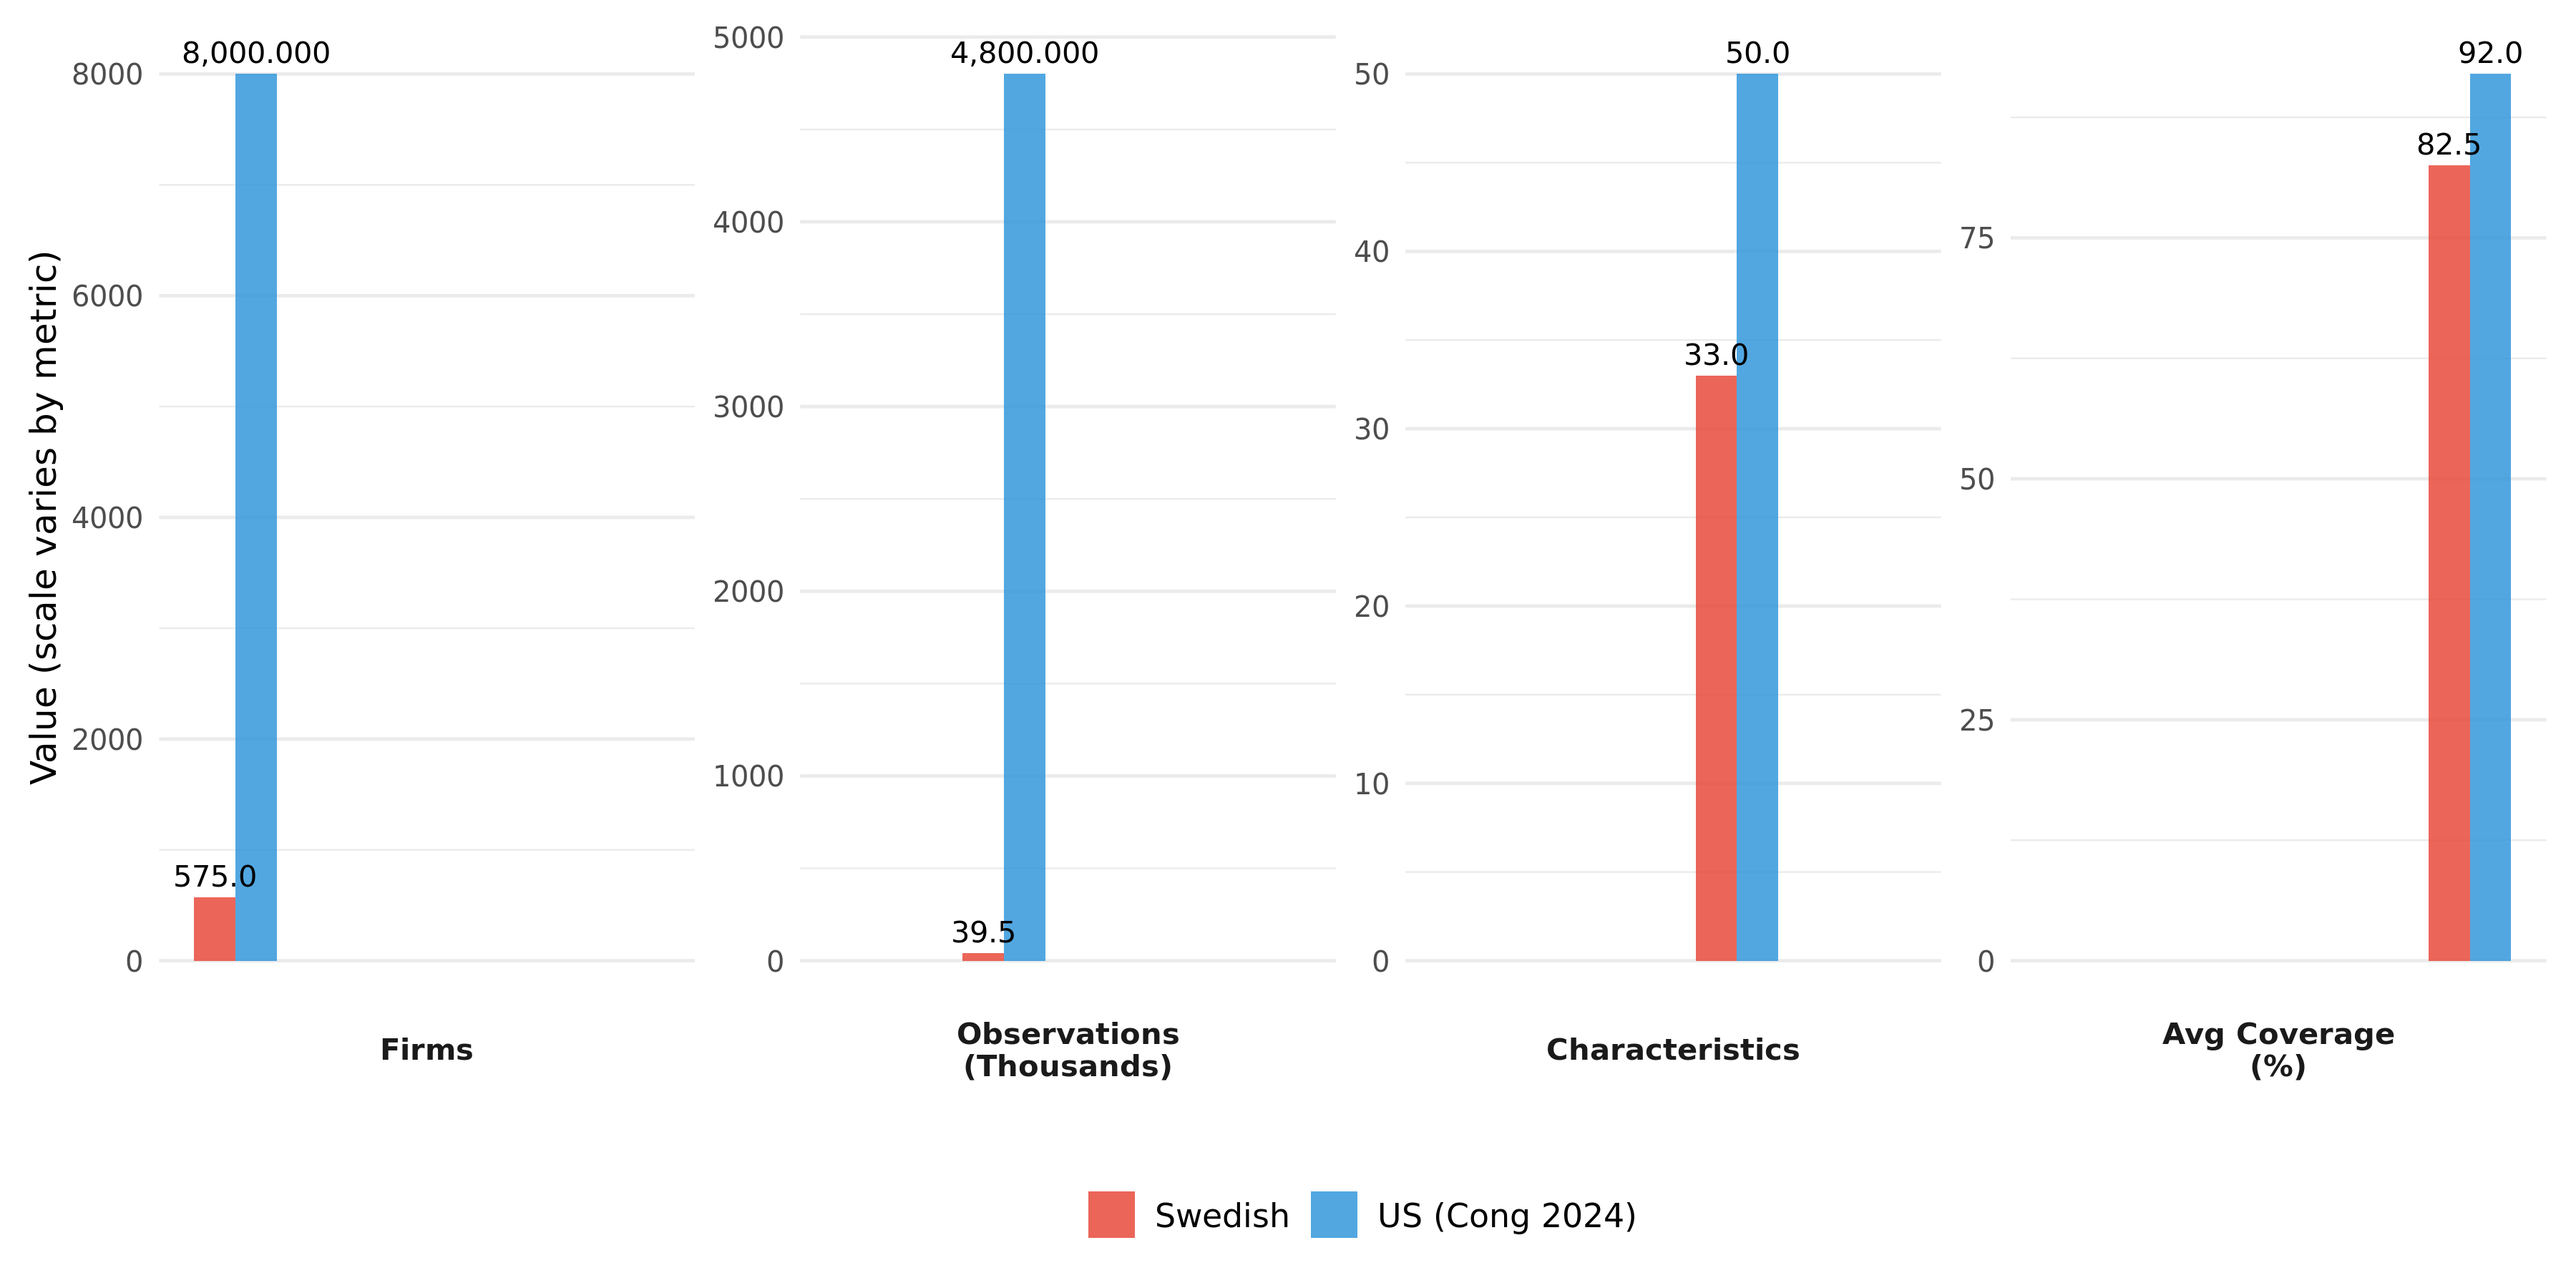
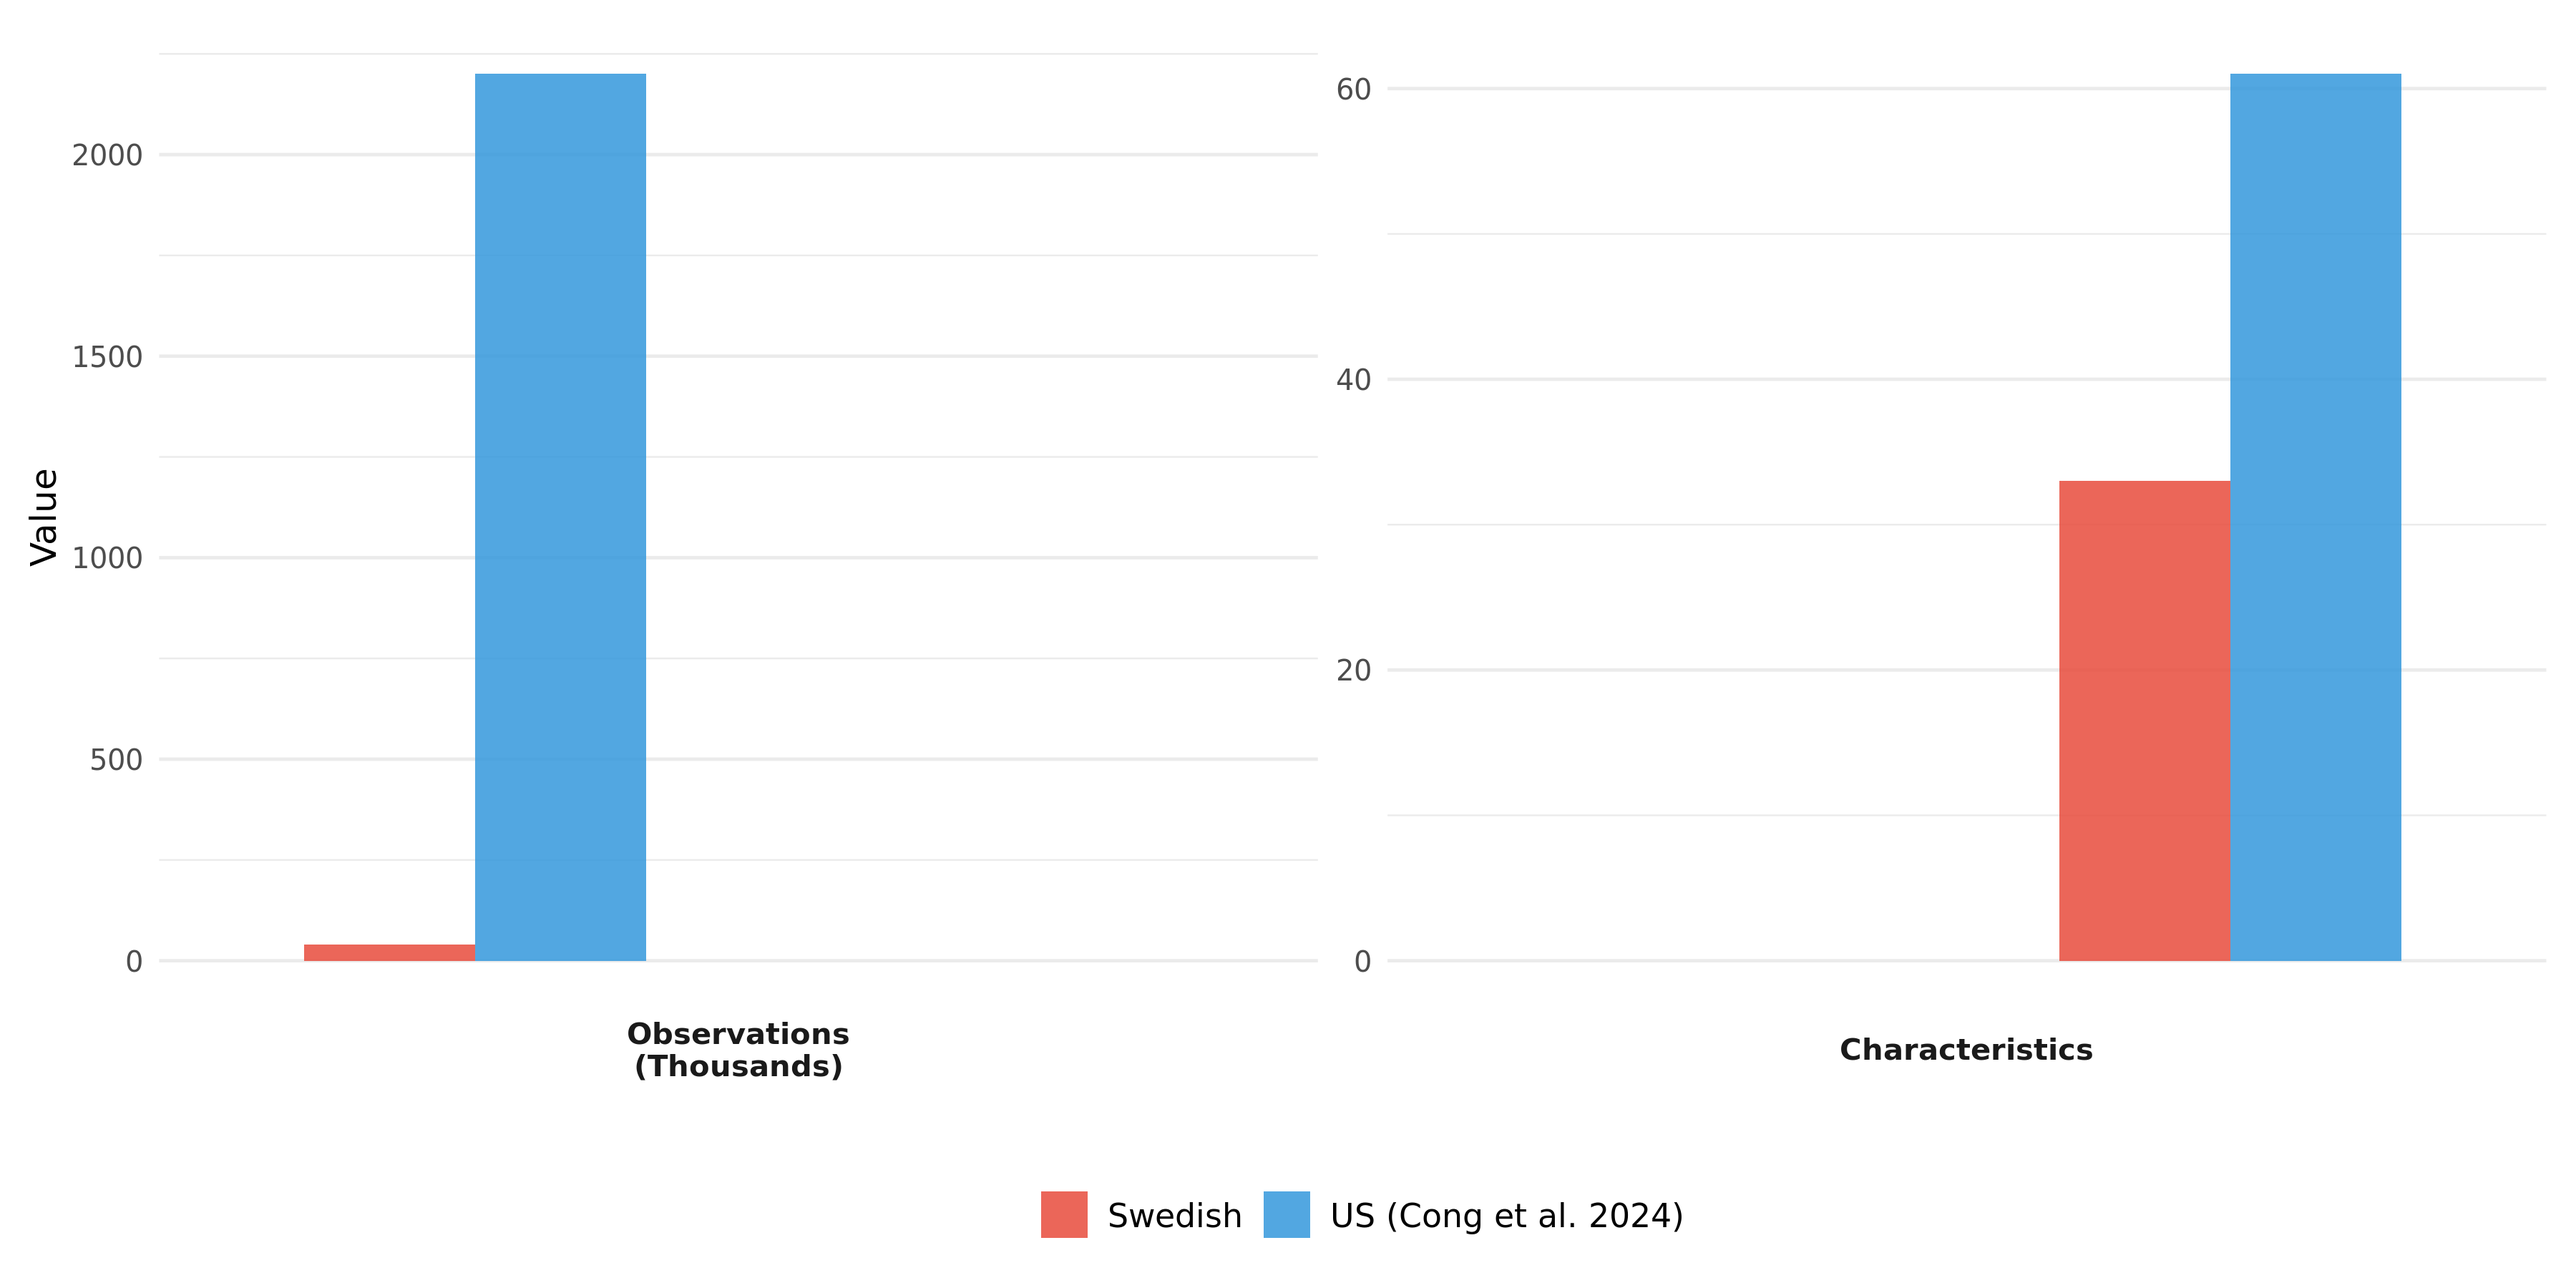
Update validation tables and figures: refresh timestamps and improve LaTeX table formatting for clarity and consistency.

diff --git a/results/validation/table_univariate_r2.tex b/results/validation/table_univariate_r2.tex
@@ -3,8 +3,10 @@
 \caption{Univariate Predictive Power: R² from $ret\_next \sim characteristic$ (Top 20 + Bottom 5)}
 \label{tab:univariate_r2}
 \small
+\begin{tabular}{lrrrrrl}
+\hline
 % latex table generated in R 4.1.2 by xtable 1.8-4 package
-% Thu Dec  4 08:37:30 2025
+% Thu Dec  4 09:35:17 2025
 Characteristic & N & R² & Coef & t-stat & Sig \\ 
   \hline
 mom12m & 31,929 & 0.002299 & 0.0096 & 8.58 & *** \\ 
@@ -33,6 +35,7 @@ mom12m & 31,929 & 0.002299 & 0.0096 & 8.58 & *** \\
   noa & 28,988 & 0.000000 & -0.0000 & -0.00 &  \\ 
   sgr & 28,365 & 0.000000 & 0.0000 & 0.00 &  \\ 
    \hline
+\end{tabular}
 \begin{tablenotes}
 \footnotesize
 \item Note: *** p$<$0.01, ** p$<$0.05, * p$<$0.10. Only non-zero observations used.

diff --git a/results/validation/table_variable_stats.tex b/results/validation/table_variable_stats.tex
@@ -1,5 +1,5 @@
 % latex table generated in R 4.1.2 by xtable 1.8-4 package
-% Thu Dec  4 08:37:30 2025
+% Thu Dec  4 09:35:17 2025
 \begin{table}[ht]
 \centering
 \caption{Variable coverage and standard deviation (ranked characteristics; non-zero observations)} 

diff --git a/results/validation/table_sample_attrition.tex b/results/validation/table_sample_attrition.tex
@@ -1,5 +1,5 @@
 % latex table generated in R 4.1.2 by xtable 1.8-4 package
-% Thu Dec  4 08:37:30 2025
+% Thu Dec  4 09:35:17 2025
 \begin{table}[ht]
 \centering
 \caption{Sample Attrition: Data Filtering Pipeline} 

diff --git a/results/validation/table_data_summary.tex b/results/validation/table_data_summary.tex
@@ -1,5 +1,5 @@
 % latex table generated in R 4.1.2 by xtable 1.8-4 package
-% Thu Dec  4 08:37:29 2025
+% Thu Dec  4 09:35:16 2025
 \begin{table}[ht]
 \centering
 \caption{Dataset Summary Statistics} 
